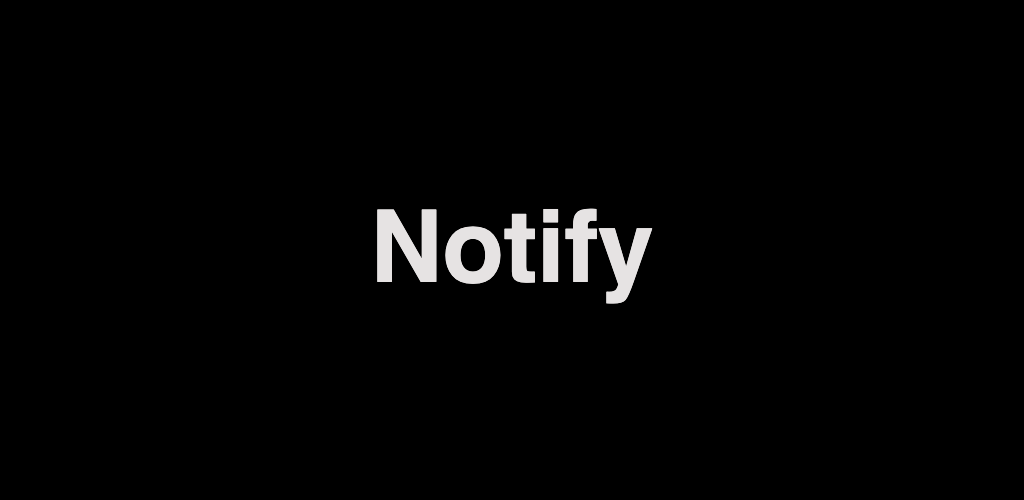
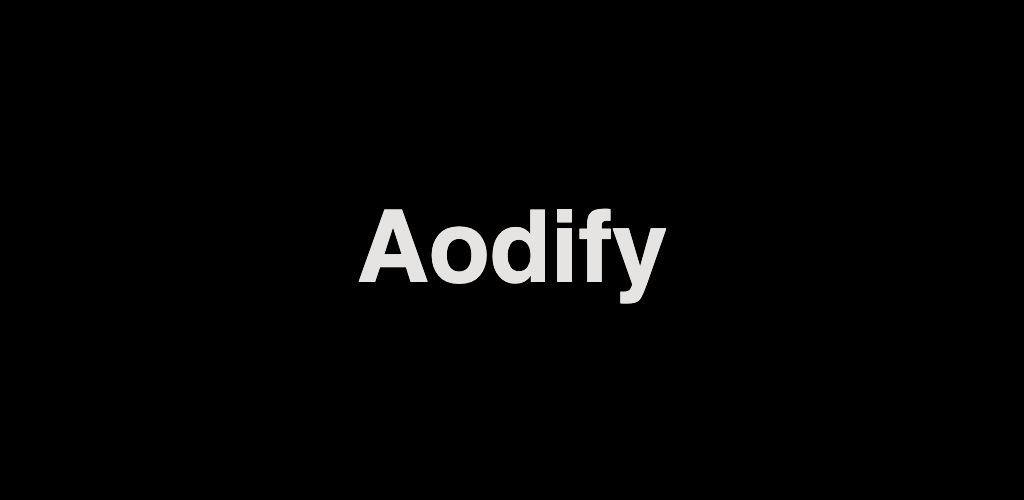
notify -> aodify
fixes and improvements

Changed region(s): [[0.3438, 0.42, 0.6562, 0.63]]

diff --git a/app/src/main/java/me/lucky/aodify/NotificationListenerService.kt b/app/src/main/java/me/lucky/aodify/NotificationListenerService.kt
@@ -1,0 +1,109 @@
+package me.lucky.aodify
+
+import android.app.NotificationManager
+import android.content.BroadcastReceiver
+import android.content.Context
+import android.content.Intent
+import android.content.IntentFilter
+import android.os.Build
+import android.os.PowerManager
+import android.service.notification.NotificationListenerService
+import android.service.notification.StatusBarNotification
+import java.util.*
+import kotlin.concurrent.timerTask
+
+class NotificationListenerService : NotificationListenerService() {
+    private lateinit var prefs: Preferences
+    private lateinit var dozeManager: DozeManager
+    private lateinit var powerManager: PowerManager
+    private lateinit var notificationManager: NotificationManager
+    private val screenReceiver = ScreenReceiver()
+    private val notifications = setOf<String>()
+
+    override fun onCreate() {
+        super.onCreate()
+        init()
+    }
+
+    override fun onDestroy() {
+        super.onDestroy()
+        deinit()
+    }
+
+    private fun init() {
+        prefs = Preferences(this)
+        dozeManager = DozeManager(this)
+        powerManager = getSystemService(PowerManager::class.java)
+        notificationManager = getSystemService(NotificationManager::class.java)
+        registerReceiver(screenReceiver, IntentFilter().apply {
+            addAction(Intent.ACTION_SCREEN_ON)
+            addAction(Intent.ACTION_SCREEN_OFF)
+        })
+    }
+
+    private fun deinit() {
+        unregisterReceiver(screenReceiver)
+    }
+
+    override fun onNotificationPosted(sbn: StatusBarNotification?) {
+        super.onNotificationPosted(sbn)
+        if (sbn == null || !prefs.isServiceEnabled || (
+            notificationManager.currentInterruptionFilter
+                != NotificationManager.INTERRUPTION_FILTER_ALL &&
+            notificationManager.currentInterruptionFilter
+                != NotificationManager.INTERRUPTION_FILTER_UNKNOWN
+        )) return
+        notifications.plus(sbn.key)
+        screenReceiver.offTimer?.cancel()
+        screenReceiver.hasNotifications = true
+        dozeManager.setAlwaysOn(1)
+        if (!powerManager.isInteractive) dozeManager.sendPulse()
+    }
+
+    override fun onNotificationRemoved(sbn: StatusBarNotification?) {
+        super.onNotificationRemoved(sbn)
+        if (sbn == null || !prefs.isServiceEnabled) return
+        notifications.minus(sbn.key)
+        if (notifications.isNotEmpty()) return
+        screenReceiver.offTimer?.cancel()
+        screenReceiver.hasNotifications = false
+        if (powerManager.isInteractive) return
+        dozeManager.setAlwaysOn(0)
+        dozeManager.sendPulse()
+    }
+
+    override fun onListenerConnected() {
+        super.onListenerConnected()
+        if (Build.VERSION.SDK_INT >= Build.VERSION_CODES.S)
+            migrateNotificationFilter(0, null)
+    }
+
+    private class ScreenReceiver : BroadcastReceiver() {
+        companion object {
+            private const val OFF_DELAY = 2000L
+        }
+
+        var hasNotifications = false
+        var offTimer: Timer? = null
+
+        override fun onReceive(context: Context?, intent: Intent?) {
+            if (!Preferences(context ?: return).isServiceEnabled) return
+            val dozeManager = DozeManager(context)
+            when (intent?.action) {
+                Intent.ACTION_SCREEN_ON -> {
+                    offTimer?.cancel()
+                    dozeManager.setAlwaysOn(1)
+                }
+                Intent.ACTION_SCREEN_OFF -> {
+                    if (hasNotifications) return
+                    offTimer?.cancel()
+                    offTimer = Timer()
+                    offTimer?.schedule(timerTask {
+                        dozeManager.setAlwaysOn(0)
+                        dozeManager.sendPulse()
+                    }, OFF_DELAY)
+                }
+            }
+        }
+    }
+}

diff --git a/app/src/main/java/me/lucky/aodify/MainActivity.kt b/app/src/main/java/me/lucky/aodify/MainActivity.kt
@@ -1,13 +1,16 @@
-package me.lucky.notify
+package me.lucky.aodify
 
-import androidx.appcompat.app.AppCompatActivity
+import android.Manifest
+import android.content.pm.PackageManager
 import android.os.Bundle
+import androidx.appcompat.app.AppCompatActivity
 
-import me.lucky.notify.databinding.ActivityMainBinding
+import me.lucky.aodify.databinding.ActivityMainBinding
 
 class MainActivity : AppCompatActivity() {
     private lateinit var binding: ActivityMainBinding
     private lateinit var prefs: Preferences
+    private lateinit var dozeManager: DozeManager
 
     override fun onCreate(savedInstanceState: Bundle?) {
         super.onCreate(savedInstanceState)
@@ -17,8 +20,20 @@ class MainActivity : AppCompatActivity() {
         setup()
     }
 
+    override fun onStart() {
+        super.onStart()
+        binding.apply {
+            wssState.text = getText(
+                if (checkSelfPermission(Manifest.permission.WRITE_SECURE_SETTINGS) ==
+                    PackageManager.PERMISSION_GRANTED) R.string.wss_state_yes
+                else R.string.wss_state_no
+            )
+        }
+    }
+
     private fun init() {
         prefs = Preferences(this)
+        dozeManager = DozeManager(this)
         binding.apply {
             toggle.isChecked = prefs.isServiceEnabled
         }
@@ -28,6 +43,7 @@ class MainActivity : AppCompatActivity() {
         binding.apply {
             toggle.setOnCheckedChangeListener { _, isChecked ->
                 prefs.isServiceEnabled = isChecked
+                dozeManager.setAlwaysOn(if (isChecked) 1 else 0)
             }
         }
     }

diff --git a/app/src/main/java/me/lucky/aodify/DozeManager.kt b/app/src/main/java/me/lucky/aodify/DozeManager.kt
@@ -1,0 +1,29 @@
+package me.lucky.aodify
+
+import android.content.Context
+import android.content.Intent
+import android.provider.Settings
+
+class DozeManager(private val ctx: Context) {
+    companion object {
+        private const val SETTINGS_ALWAYS_ON = "doze_always_on"
+//        private const val SETTINGS_ENABLED = "doze_enabled"
+        private const val PULSE_PACKAGE = "com.android.systemui"
+        private const val PULSE_ACTION = "$PULSE_PACKAGE.doze.pulse"
+    }
+
+//        fun isEnabled(): Boolean {
+//            return try {
+//                Settings.Secure.getInt(ctx.contentResolver, SETTINGS_ENABLED) == 1
+//            } catch (exc: SecurityException) { false }
+//        }
+
+    fun setAlwaysOn(state: Int) {
+        assert(state == 0 || state == 1)
+        try {
+            Settings.Secure.putInt(ctx.contentResolver, SETTINGS_ALWAYS_ON, state)
+        } catch (exc: SecurityException) {}
+    }
+
+    fun sendPulse() = ctx.sendBroadcast(Intent(PULSE_ACTION).setPackage(PULSE_PACKAGE))
+}

diff --git a/app/src/androidTest/java/me/lucky/aodify/ExampleInstrumentedTest.kt b/app/src/androidTest/java/me/lucky/aodify/ExampleInstrumentedTest.kt
@@ -1,4 +1,4 @@
-package me.lucky.notify
+package me.lucky.aodify
 
 import androidx.test.platform.app.InstrumentationRegistry
 import androidx.test.ext.junit.runners.AndroidJUnit4
@@ -19,6 +19,6 @@ class ExampleInstrumentedTest {
     fun useAppContext() {
         // Context of the app under test.
         val appContext = InstrumentationRegistry.getInstrumentation().targetContext
-        assertEquals("me.lucky.notify", appContext.packageName)
+        assertEquals("me.lucky.aodify", appContext.packageName)
     }
 }

diff --git a/app/src/main/java/me/lucky/aodify/Application.kt b/app/src/main/java/me/lucky/aodify/Application.kt
@@ -1,4 +1,4 @@
-package me.lucky.notify
+package me.lucky.aodify
 
 import android.app.Application
 import com.google.android.material.color.DynamicColors

diff --git a/app/src/main/java/me/lucky/aodify/Preferences.kt b/app/src/main/java/me/lucky/aodify/Preferences.kt
@@ -1,4 +1,4 @@
-package me.lucky.notify
+package me.lucky.aodify
 
 import android.content.Context
 import androidx.core.content.edit

diff --git a/app/src/test/java/me/lucky/aodify/ExampleUnitTest.kt b/app/src/test/java/me/lucky/aodify/ExampleUnitTest.kt
@@ -1,4 +1,4 @@
-package me.lucky.notify
+package me.lucky.aodify
 
 import org.junit.Test
 

diff --git a/README.md b/README.md
@@ -1,18 +1,18 @@
-# Notify
+# Aodify
 
 Show AOD on demand.
 
 <!-- [<img -->
 <!--      src="https://fdroid.gitlab.io/artwork/badge/get-it-on.png" -->
 <!--      alt="Get it on F-Droid" -->
-<!--      height="80">](https://f-droid.org/packages/me.lucky.notify/) -->
+<!--      height="80">](https://f-droid.org/packages/me.lucky.aodify/) -->
 <!-- [<img -->
 <!--       src="https://play.google.com/intl/en_us/badges/images/generic/en-play-badge.png" -->
 <!--       alt="Get it on Google Play" -->
-<!--       height="80">](https://play.google.com/store/apps/details?id=me.lucky.notify) -->
+<!--       height="80">](https://play.google.com/store/apps/details?id=me.lucky.aodify) -->
 
 <img
-     src="https://raw.githubusercontent.com/x13a/Notify/main/fastlane/metadata/android/en-US/images/phoneScreenshots/1.png"
+     src="https://raw.githubusercontent.com/x13a/Aodify/main/fastlane/metadata/android/en-US/images/phoneScreenshots/1.png"
      width="30%"
      height="30%">
 
@@ -21,7 +21,7 @@ Tested with Google Pixel.
 
 You have to grant `WRITE_SECURE_SETTINGS` permission:
 ```sh
-$ adb shell pm grant me.lucky.notify android.permission.WRITE_SECURE_SETTINGS
+$ adb shell pm grant me.lucky.aodify android.permission.WRITE_SECURE_SETTINGS
 ```
 
 ## Permissions
